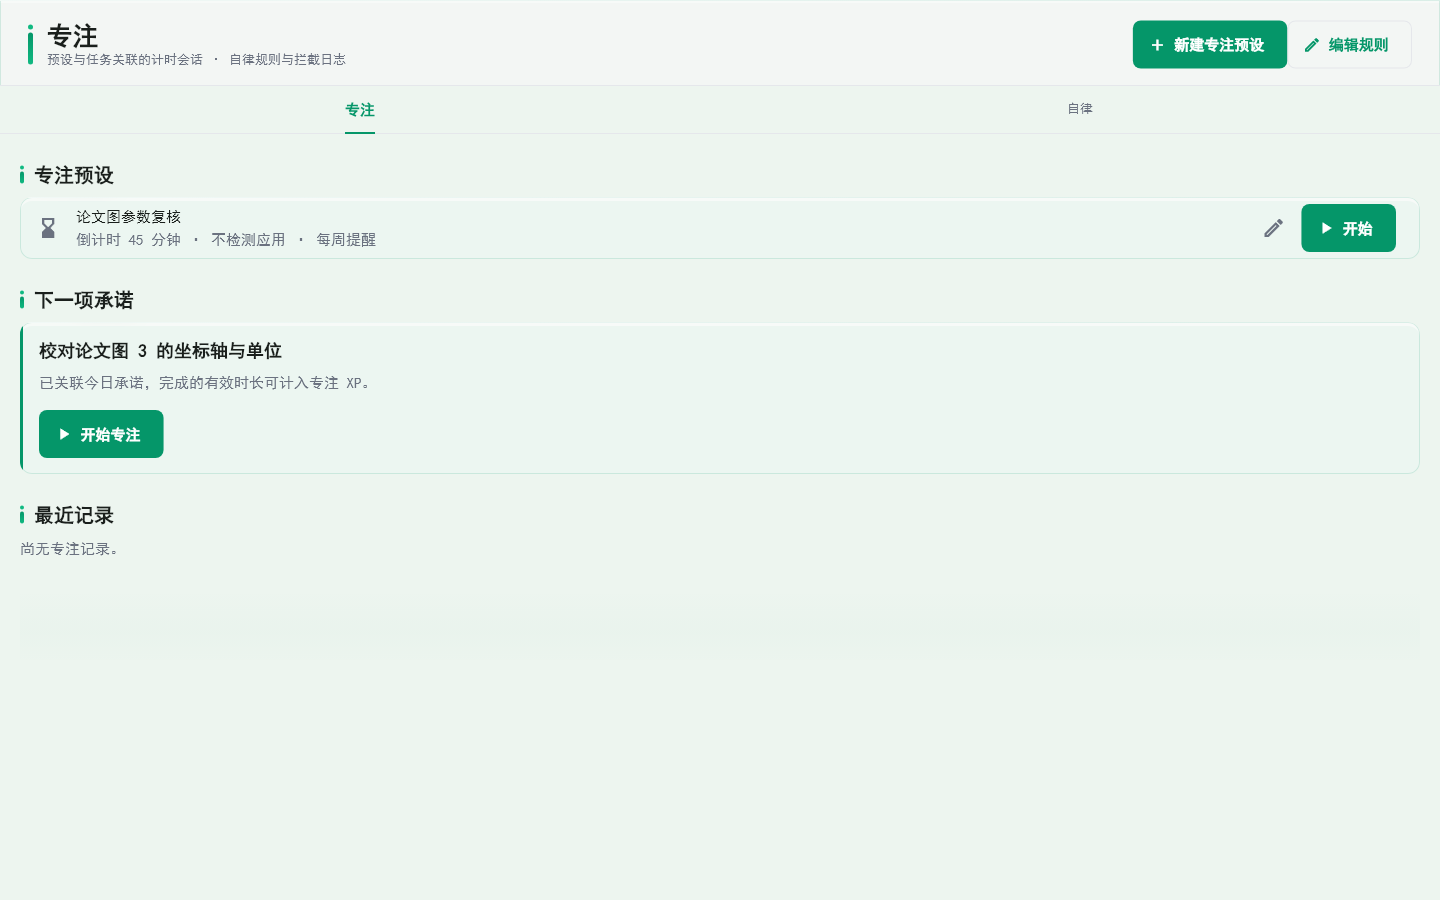
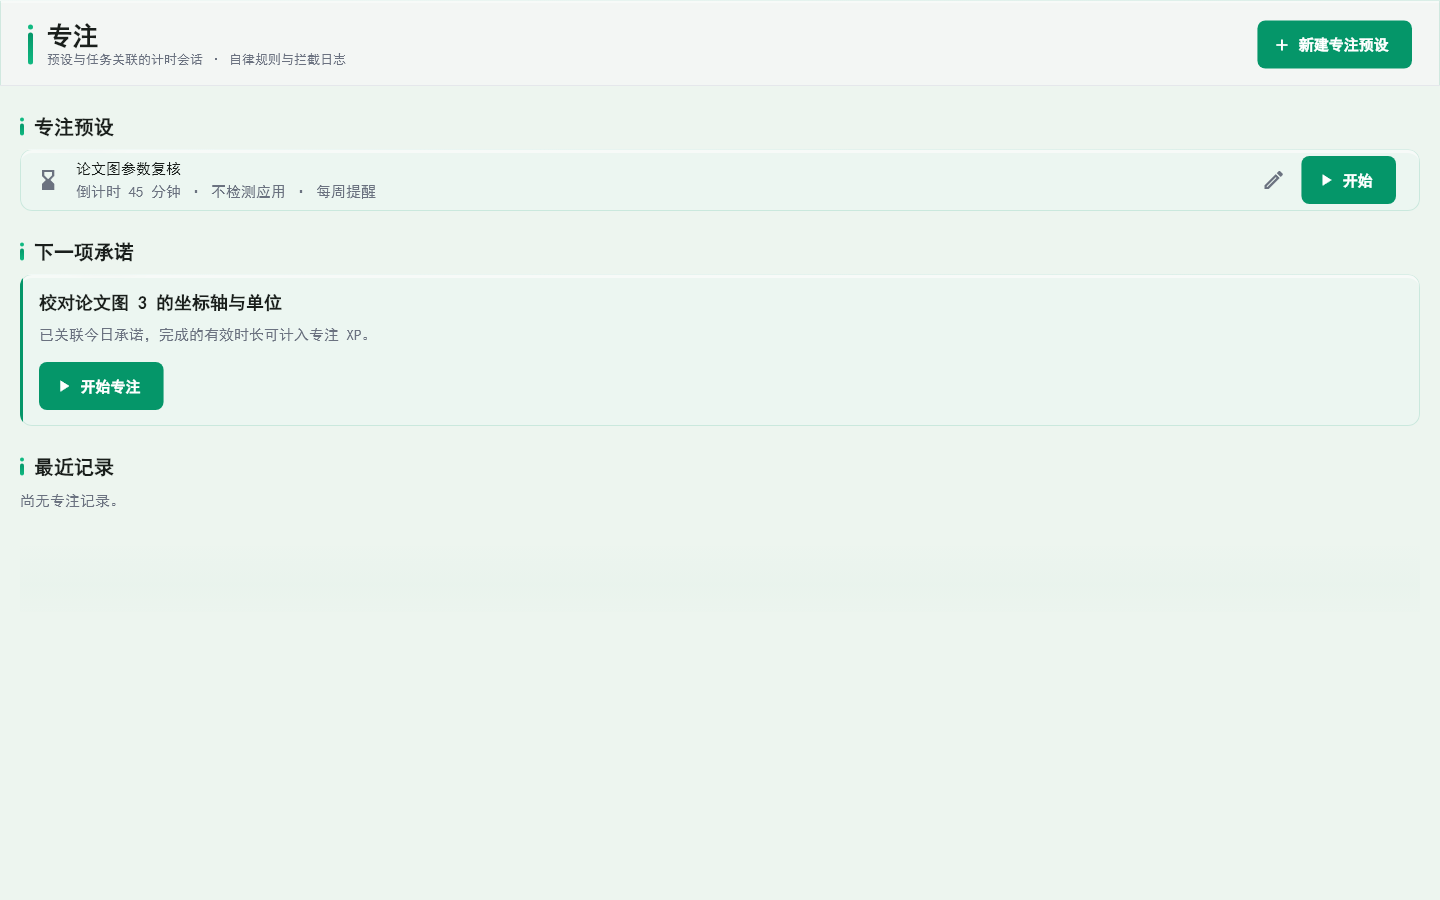
test: update navigation and focus goldens

diff --git a/test/ui_coverage_regression_test.dart b/test/ui_coverage_regression_test.dart
@@ -613,14 +613,48 @@ void main() {
       ),
       size: const Size(1536, 864),
     );
-    for (final label in ['计划', '执行', '沉淀', '回顾', '系统']) {
-      expect(find.widgetWithText(ListTile, label), findsOneWidget);
-    }
-    await tester.tap(find.widgetWithText(ListTile, '系统'));
+    expect(find.widgetWithText(ListTile, '今日'), findsOneWidget);
+    expect(
+      find.byKey(const ValueKey('navigation-group:tasks')),
+      findsOneWidget,
+    );
+    expect(
+      find.byKey(const ValueKey('navigation-group:projects')),
+      findsOneWidget,
+    );
+    expect(
+      find.byKey(const ValueKey('navigation-leaf:settings')),
+      findsOneWidget,
+    );
+    expect(find.widgetWithText(ListTile, '计划'), findsNothing);
+    expect(find.widgetWithText(ListTile, '执行'), findsNothing);
+    await fixture.controller.setNavigationGroupExpanded('tasks', false);
     await tester.pumpAndSettle();
-    expect(find.widgetWithText(ListTile, '设置'), findsOneWidget);
-    expect(find.widgetWithText(ListTile, '收集箱'), findsNothing);
-    expect(find.widgetWithText(ListTile, '协议'), findsNothing);
+    for (final key in ['tasksAll', 'tasksInbox', 'tasksWeek', 'tasksGroups']) {
+      expect(find.byKey(ValueKey('navigation-leaf:$key')), findsNothing);
+    }
+    await tester.tap(find.byKey(const ValueKey('navigation-group:tasks')));
+    await tester.pumpAndSettle();
+    expect(
+      find.byKey(const ValueKey('navigation-leaf:tasksInbox')),
+      findsOneWidget,
+    );
+    await tester.tap(find.byKey(const ValueKey('navigation-group:tasks')));
+    await tester.pumpAndSettle();
+    expect(
+      find.byKey(const ValueKey('navigation-leaf:tasksInbox')),
+      findsNothing,
+    );
+    await tester.tap(find.byKey(const ValueKey('navigation-group:tasks')));
+    await tester.pumpAndSettle();
+    expect(
+      find.byKey(const ValueKey('navigation-leaf:tasksInbox')),
+      findsOneWidget,
+    );
+    await tester.tap(find.byKey(const ValueKey('navigation-leaf:tasksInbox')));
+    await tester.pumpAndSettle();
+    expect(find.byType(TabBar), findsNothing);
+    expect(find.widgetWithText(ListTile, '系统'), findsNothing);
 
     await tester.pumpWidget(const SizedBox.shrink());
     await fixture.controller.setAdvancedFeaturesEnabled(false);
@@ -645,18 +679,18 @@ void main() {
     expect(find.byTooltip('更多'), findsOneWidget);
     expect(find.byType(FloatingActionButton), findsNothing);
 
+    await fixture.controller.setNavigationGroupExpanded('projects', false);
     await tester.tap(find.byTooltip('更多'));
     await tester.pumpAndSettle();
-    expect(find.widgetWithText(ListTile, '项目'), findsOneWidget);
-    expect(find.widgetWithText(ListTile, '专注'), findsOneWidget);
-    expect(find.widgetWithText(ListTile, '笔记'), findsOneWidget);
-
-    await tester.tap(find.widgetWithText(ListTile, '项目'));
-    await tester.pumpAndSettle();
     expect(
-      find.descendant(of: find.byType(AppBar), matching: find.text('项目')),
+      find.byKey(const ValueKey('navigation-group:projects')),
       findsOneWidget,
     );
+
+    await tester.tap(find.byKey(const ValueKey('navigation-group:projects')));
+    await tester.pumpAndSettle();
+    expect(find.byType(BottomSheet), findsNothing);
+    expect(find.text('项目 · 概览'), findsOneWidget);
     await tester.binding.handlePopRoute();
     await tester.pumpAndSettle();
     expect(
@@ -692,7 +726,9 @@ void main() {
     expect(navigation.destinations, hasLength(5));
     await tester.tap(find.byTooltip('更多'));
     await tester.pumpAndSettle();
-    await tester.tap(find.widgetWithText(ListTile, '专注'));
+    await tester.drag(find.byType(ListView).last, const Offset(0, -420));
+    await tester.pumpAndSettle();
+    await tester.tap(find.byKey(const ValueKey('navigation-leaf:focus')));
     await tester.pumpAndSettle();
     expect(tester.takeException(), isNull);
   });

diff --git a/test/restriction_page_test.dart b/test/restriction_page_test.dart
@@ -55,9 +55,7 @@ void main() {
     expect(find.text('当前状态'), findsOneWidget);
   });
 
-  testWidgets('focus hub keeps focus and legacy restriction tabs', (
-    tester,
-  ) async {
+  testWidgets('focus hub is a dedicated focus page', (tester) async {
     tester.view.physicalSize = const Size(1440, 900);
     tester.view.devicePixelRatio = 1;
     addTearDown(tester.view.resetPhysicalSize);
@@ -66,20 +64,14 @@ void main() {
     addTearDown(controller.dispose);
     await tester.pumpWidget(_host(FocusHubPage(controller: controller)));
     await tester.pump();
-    expect(find.text('专注'), findsWidgets); // PageHeader 标题 + Tab
+    expect(find.text('专注'), findsOneWidget);
     expect(find.text('导入 SelfControl'), findsNothing);
-    // Tab 2 惰性构建：未选中时不渲染自律内容
+    expect(find.text('自律'), findsNothing);
     expect(find.text('保护设置'), findsNothing);
-    await tester.tap(find.text('自律'));
-    await tester.pumpAndSettle();
-    expect(find.text('保护设置'), findsOneWidget);
-    expect(find.text('当前状态'), findsOneWidget);
     expect(tester.takeException(), isNull);
   });
 
-  testWidgets('compact focus hub keeps restriction creation actions', (
-    tester,
-  ) async {
+  testWidgets('compact focus hub only exposes focus actions', (tester) async {
     tester.view.physicalSize = const Size(390, 844);
     tester.view.devicePixelRatio = 1;
     addTearDown(tester.view.resetPhysicalSize);
@@ -93,7 +85,22 @@ void main() {
     await tester.pump();
 
     expect(find.byTooltip('新建专注预设'), findsOneWidget);
-    expect(find.byTooltip('编辑自律规则'), findsOneWidget);
+    expect(find.byTooltip('编辑自律规则'), findsNothing);
     expect(find.byTooltip('导入 SelfControl'), findsNothing);
+  });
+
+  testWidgets('restriction page is reachable as a standalone page', (
+    tester,
+  ) async {
+    tester.view.physicalSize = const Size(1440, 900);
+    tester.view.devicePixelRatio = 1;
+    addTearDown(tester.view.resetPhysicalSize);
+    addTearDown(tester.view.resetDevicePixelRatio);
+    final controller = _controller();
+    addTearDown(controller.dispose);
+    await tester.pumpWidget(_host(RestrictionPage(controller: controller)));
+    await tester.pump();
+    expect(find.text('自律'), findsOneWidget);
+    expect(find.text('当前状态'), findsOneWidget);
   });
 }

diff --git a/test/visual_golden_test.dart b/test/visual_golden_test.dart
@@ -24,6 +24,7 @@ import 'package:personal_workbench/ui/pages/policies_page.dart';
 import 'package:personal_workbench/ui/pages/projects_page.dart';
 import 'package:personal_workbench/ui/pages/protocols_page.dart';
 import 'package:personal_workbench/ui/pages/review_page.dart';
+import 'package:personal_workbench/ui/pages/restriction_page.dart';
 import 'package:personal_workbench/ui/pages/today_page.dart';
 import 'package:personal_workbench/ui/widgets/record_editor_dialog.dart';
 import 'package:personal_workbench/ui/workbench_shell.dart';
@@ -678,11 +679,9 @@ void main() {
   testWidgets('documentation focus restriction tab', (tester) async {
     await _pumpDocumentationPage(
       tester,
-      FocusHubPage(controller: guideFixture.controller),
+      RestrictionPage(controller: guideFixture.controller),
       fileName: 'guide_focus_restriction',
       beforeCapture: () async {
-        await tester.tap(find.widgetWithText(Tab, '自律'));
-        await tester.pumpAndSettle();
         expect(find.text('当前状态'), findsOneWidget);
         expect(find.text('论文冲刺自律'), findsWidgets);
       },
